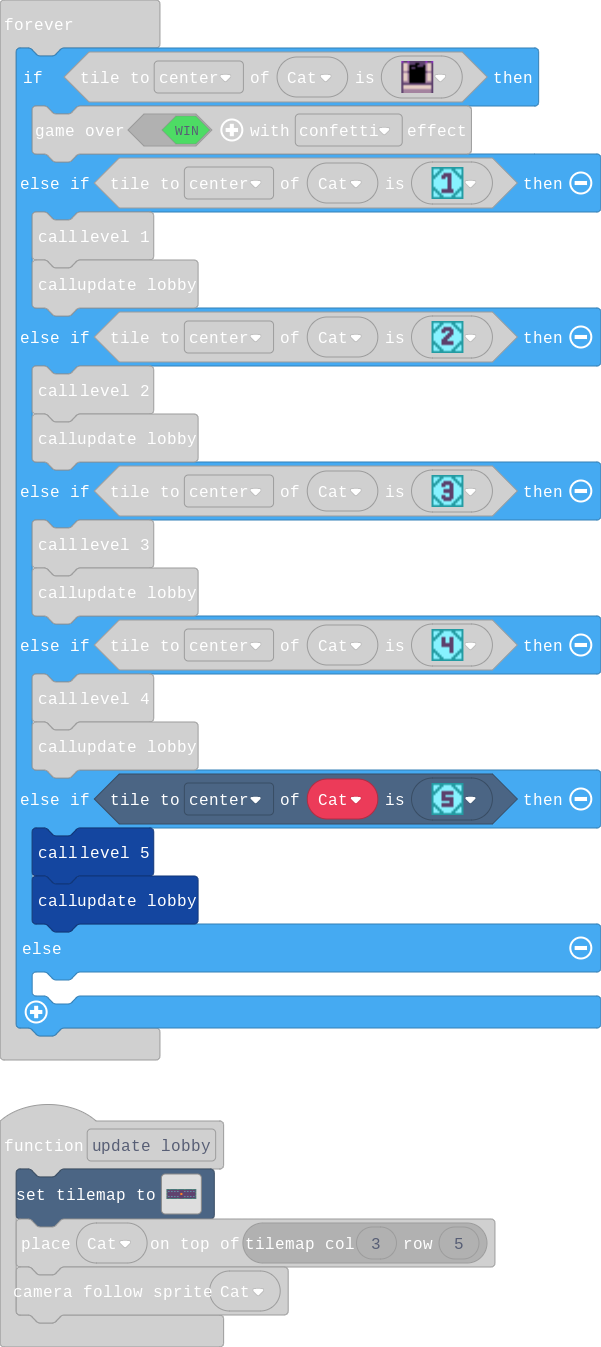
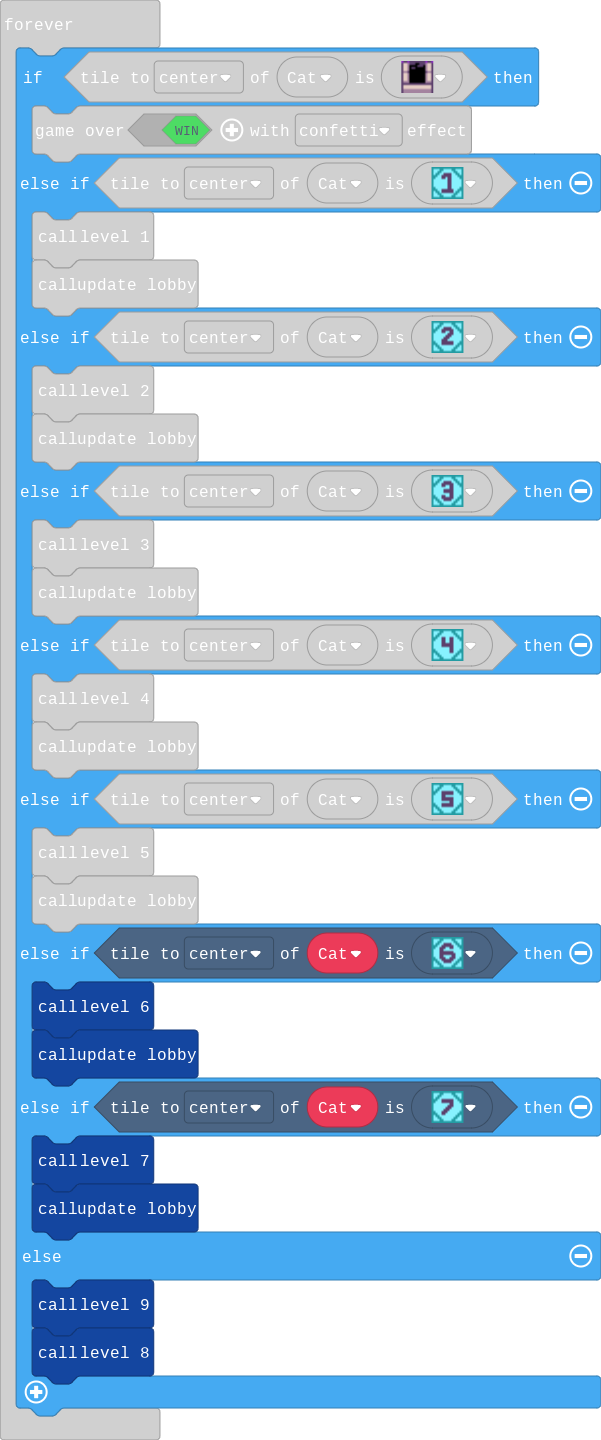
Added levels 6 and 7 to lobby.

diff --git a/main.ts b/main.ts
@@ -1255,7 +1255,14 @@ forever(function () {
     } else if (Cat.tileKindAt(TileDirection.Center, myTiles.tile13)) {
         level_5()
         update_lobby()
+    } else if (Cat.tileKindAt(TileDirection.Center, myTiles.tile14)) {
+        level_6()
+        update_lobby()
+    } else if (Cat.tileKindAt(TileDirection.Center, myTiles.tile15)) {
+        level_7()
+        update_lobby()
     } else {
-    	
+        level_9()
+        level_8()
     }
 })
